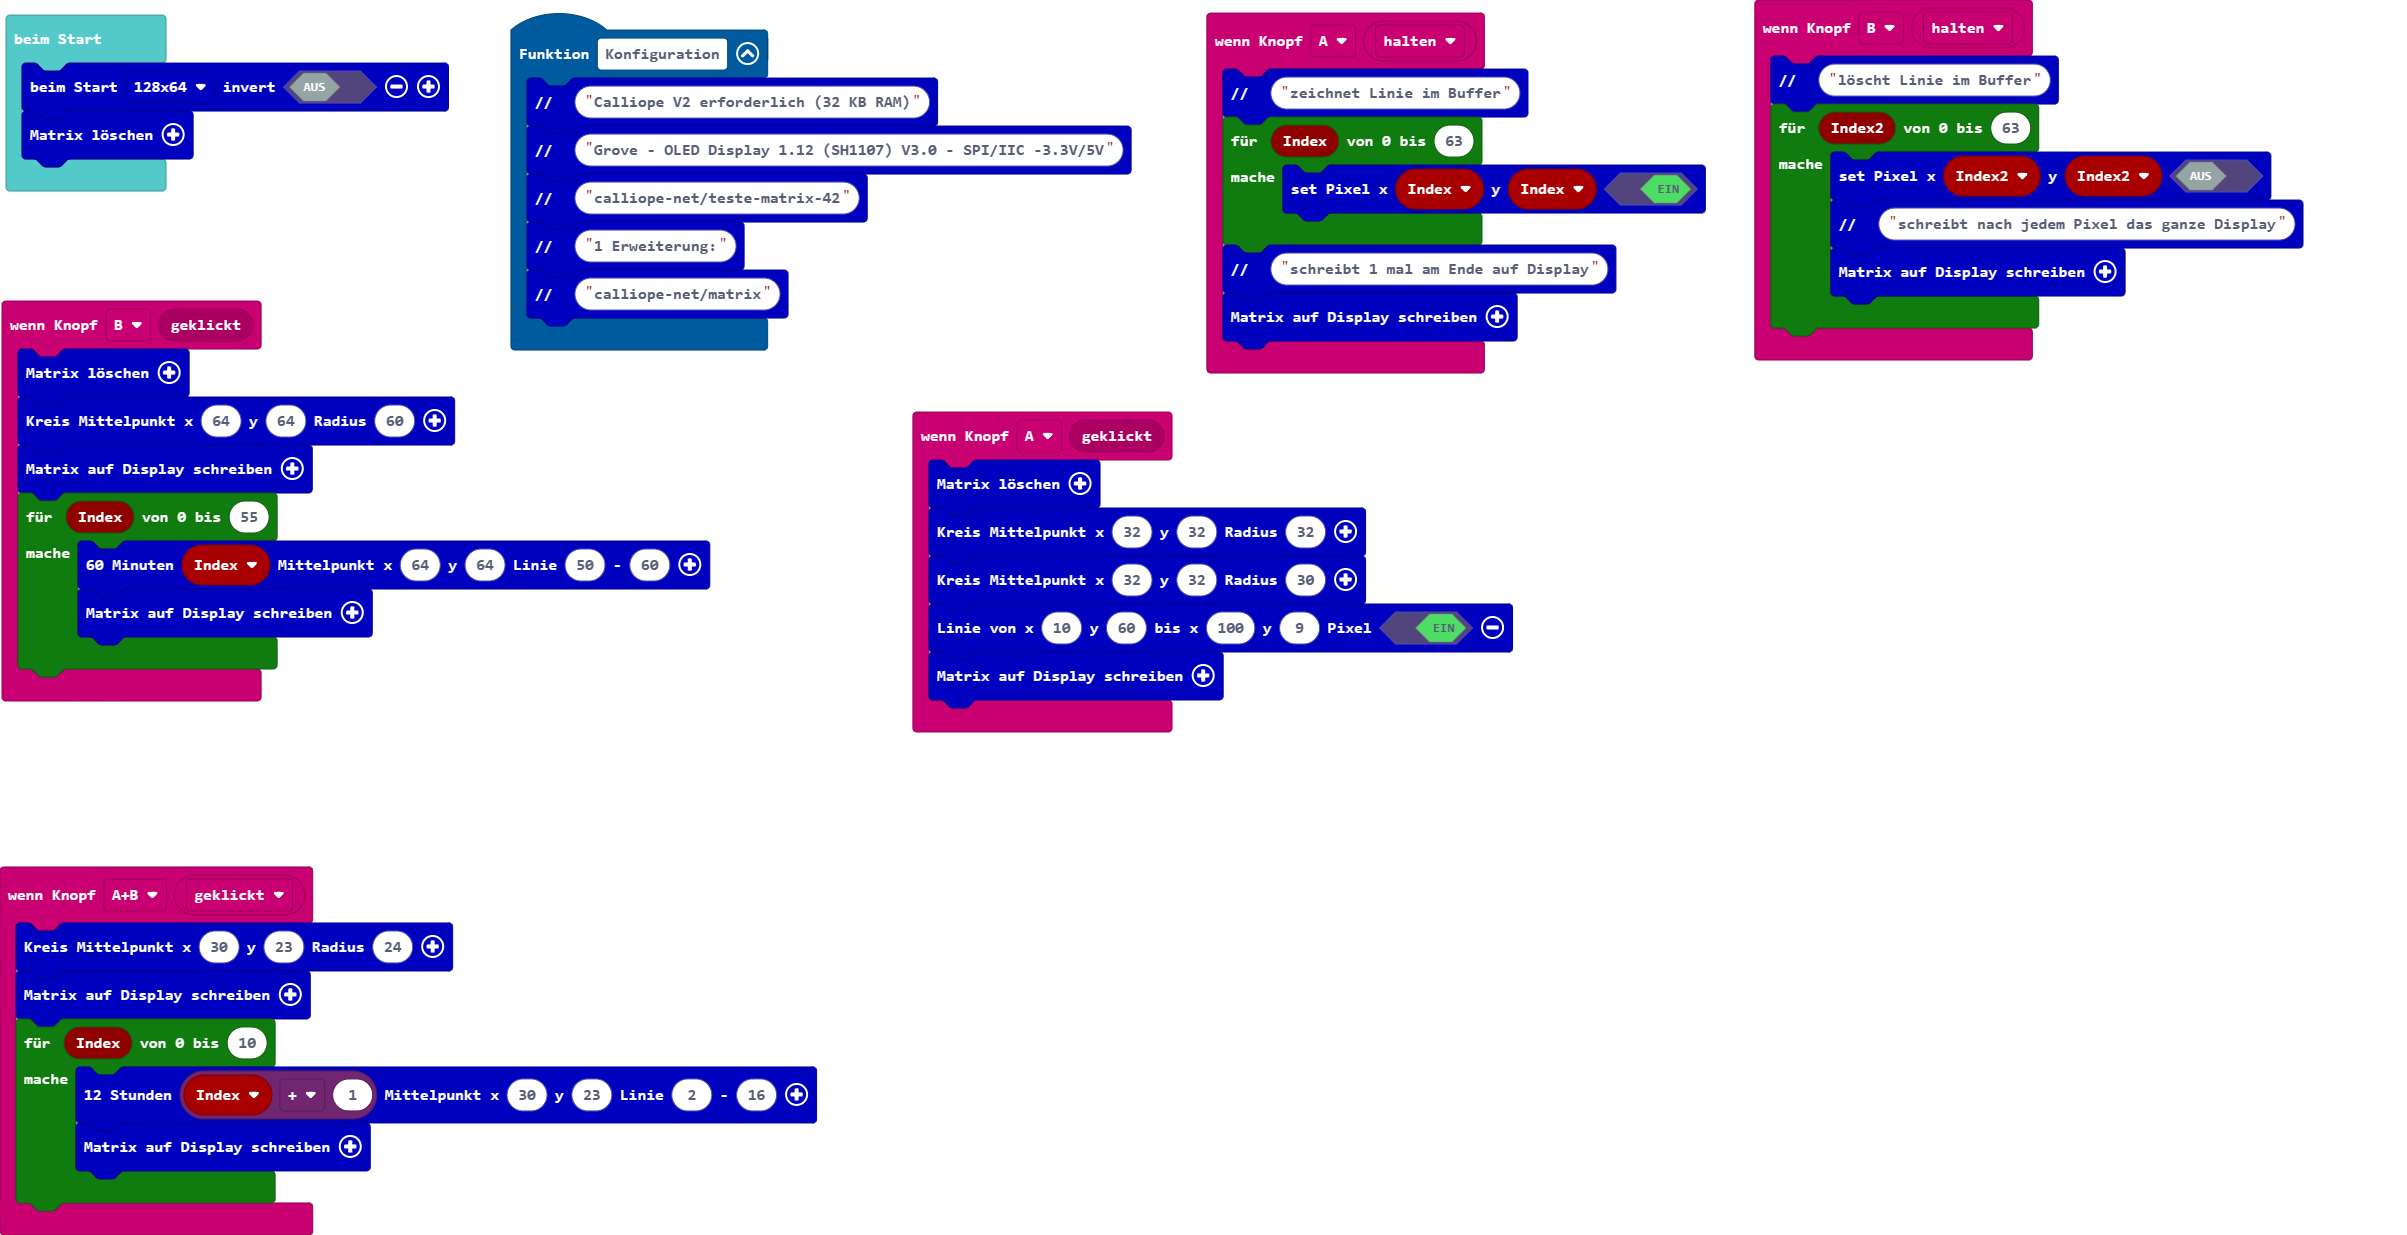
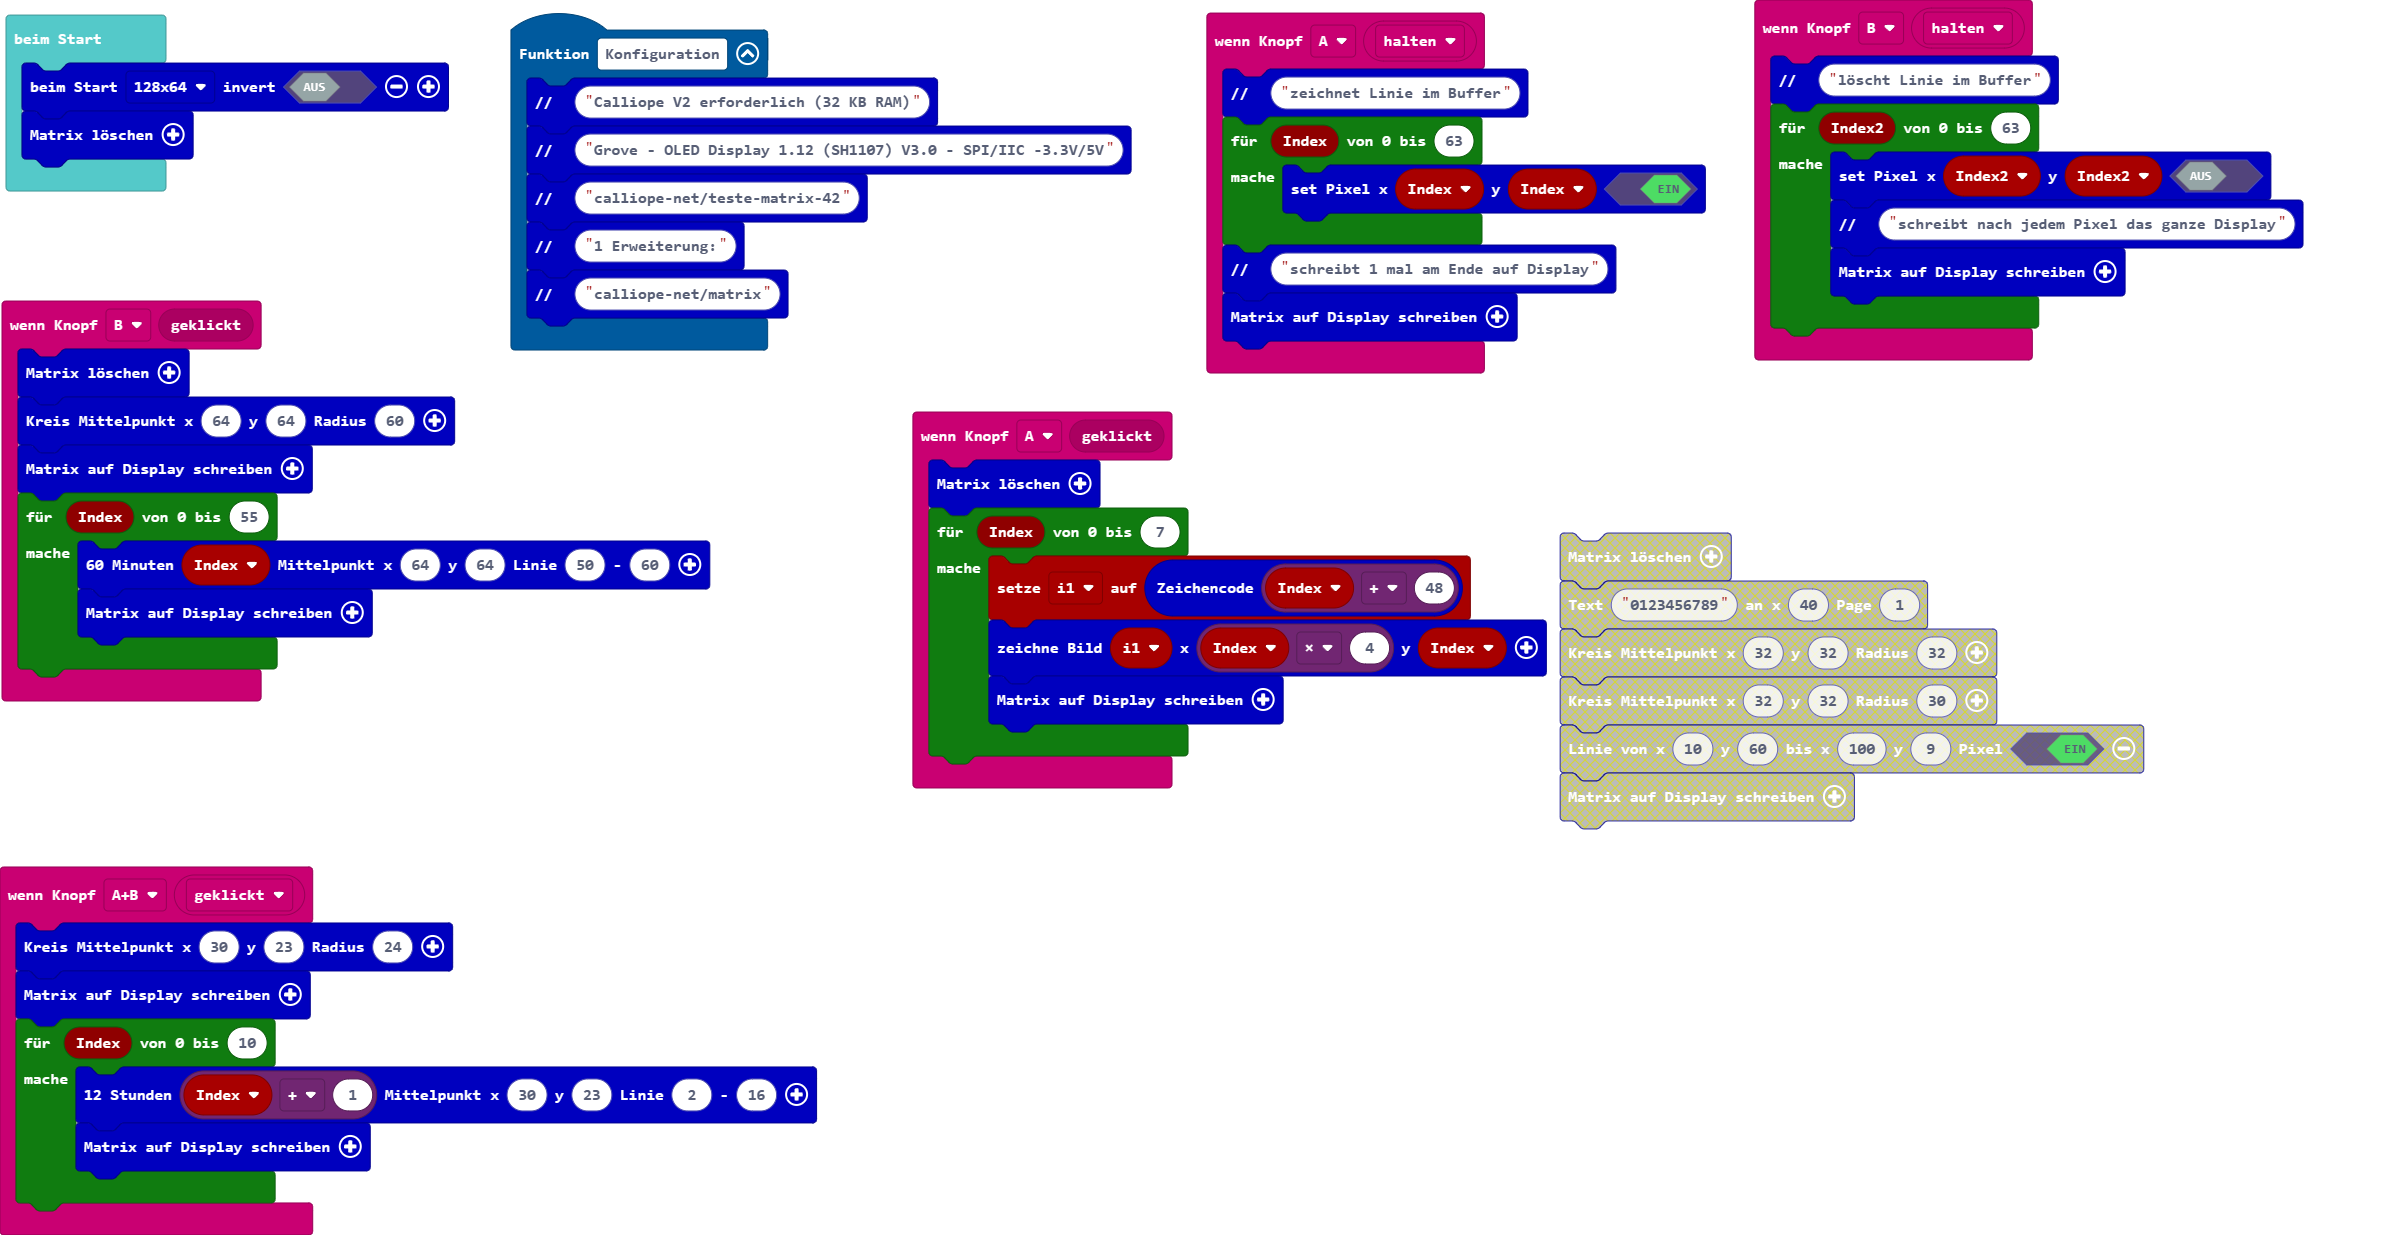
Aktualisiere pxt.json, main.blocks, main.ts

Changed region(s): [[0.3739, 0.4, 0.9036, 0.6769]]

diff --git a/main.ts b/main.ts
@@ -8,10 +8,11 @@ input.onButtonEvent(Button.AB, ButtonEvent.Click, function () {
 })
 input.onButtonEvent(Button.A, input.buttonEventClick(), function () {
     matrix.clearMatrix()
-    matrix.rasterCircle(32, 32, 32)
-    matrix.rasterCircle(32, 32, 30)
-    matrix.line(10, 60, 100, 9, true)
-    matrix.writeDisplay()
+    for (let Index = 0; Index <= 7; Index++) {
+        i1 = matrix.writeCharImage(Index + 48)
+        matrix.writeImage(i1, Index * 4, Index)
+        matrix.writeDisplay()
+    }
 })
 input.onButtonEvent(Button.B, input.buttonEventClick(), function () {
     matrix.clearMatrix()
@@ -45,5 +46,6 @@ function Konfiguration () {
     matrix.comment("1 Erweiterung:")
     matrix.comment("calliope-net/matrix")
 }
+let i1: Image = null
 matrix.init(matrix.ePages.y64, false)
 matrix.clearMatrix()
